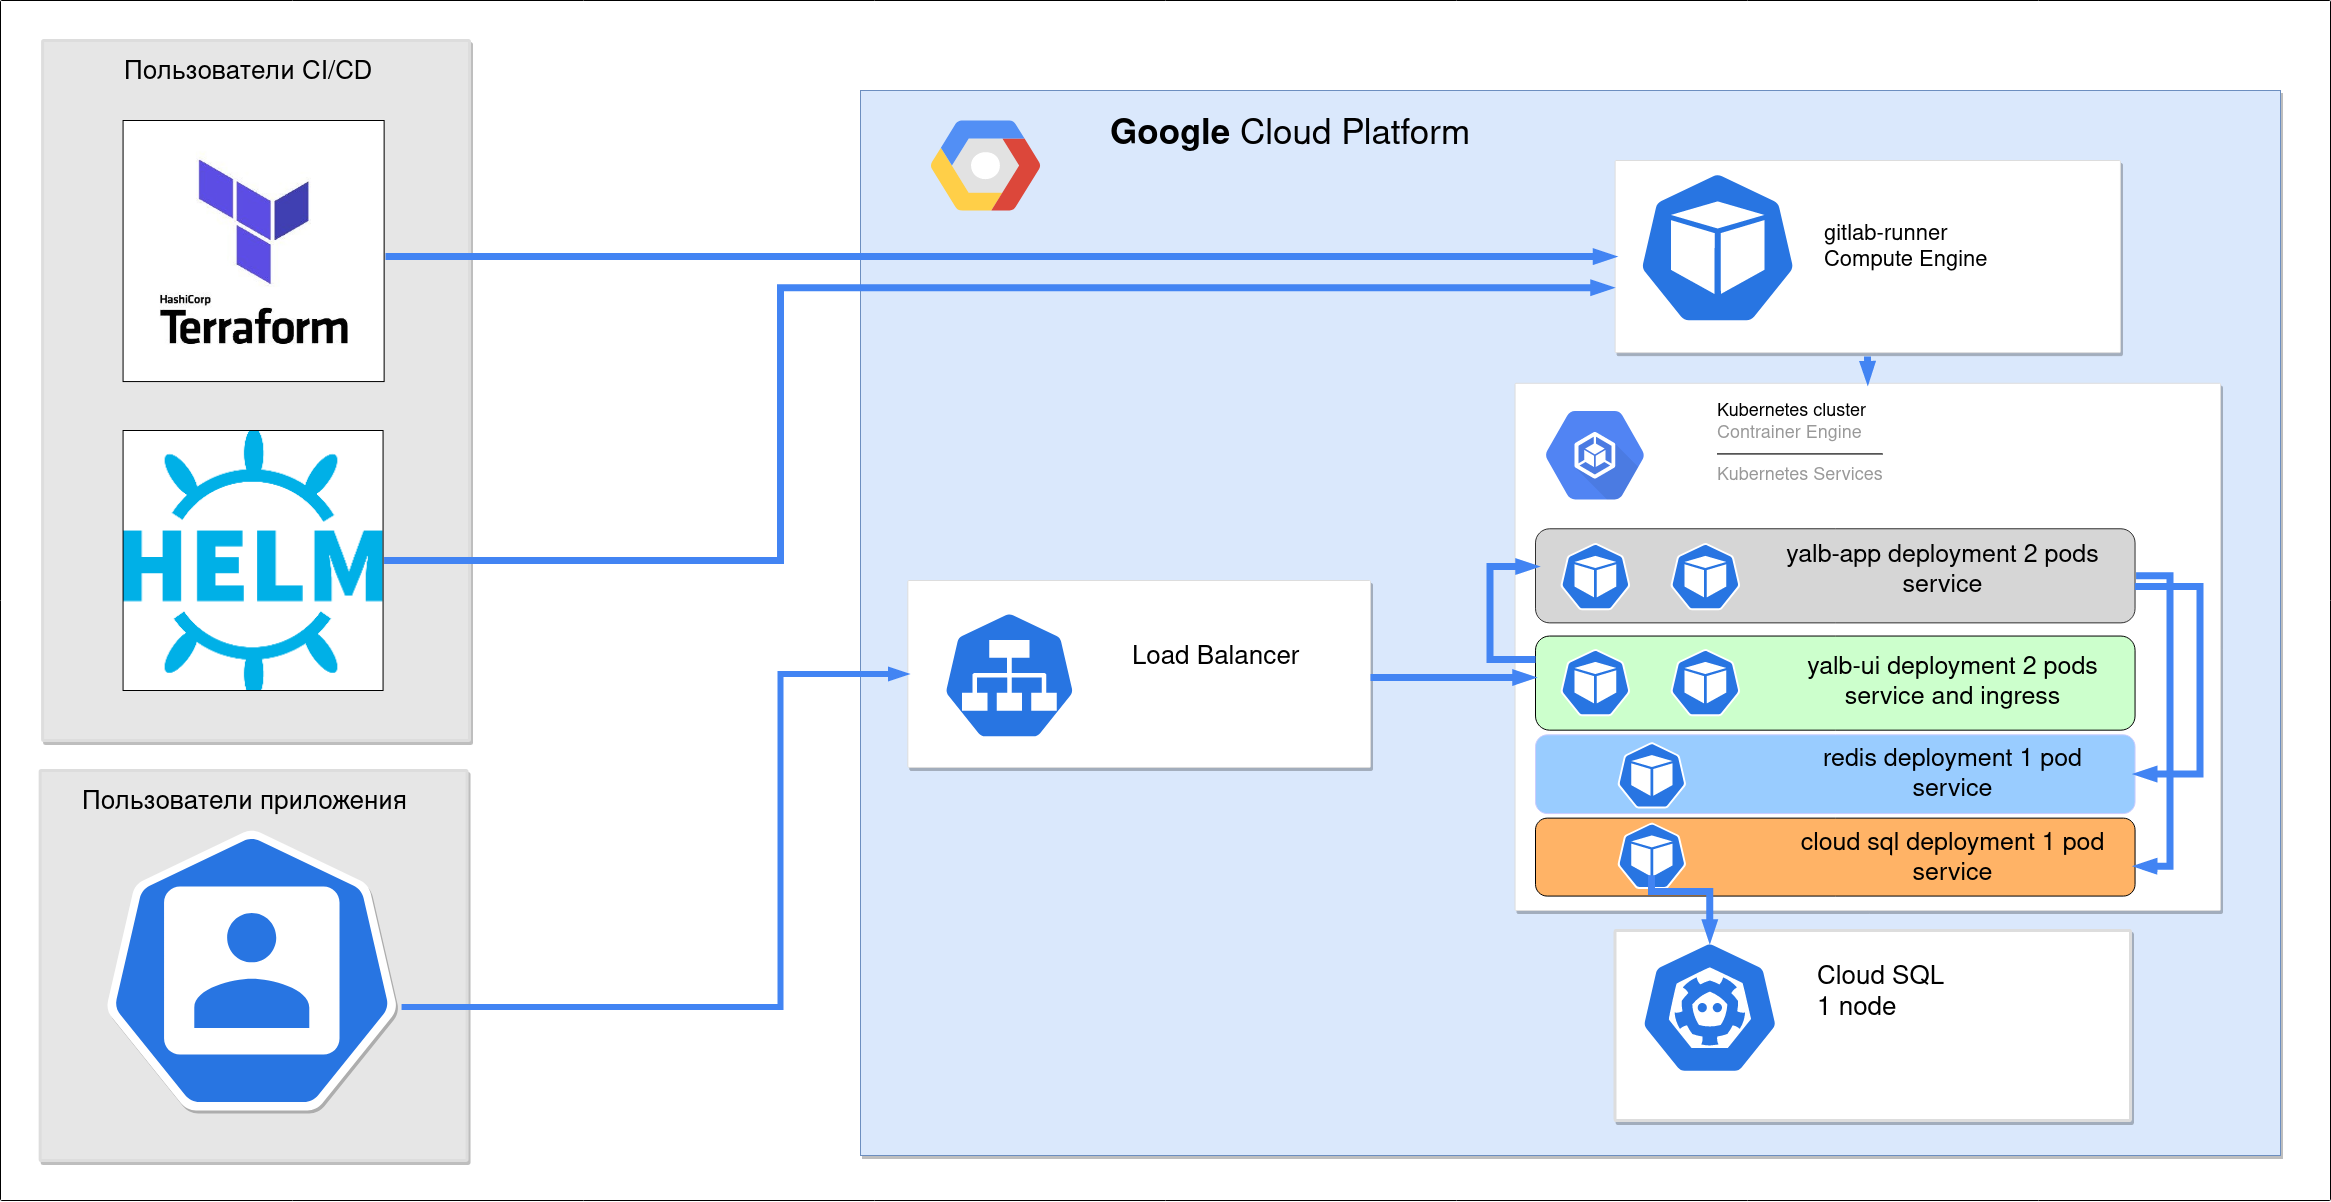
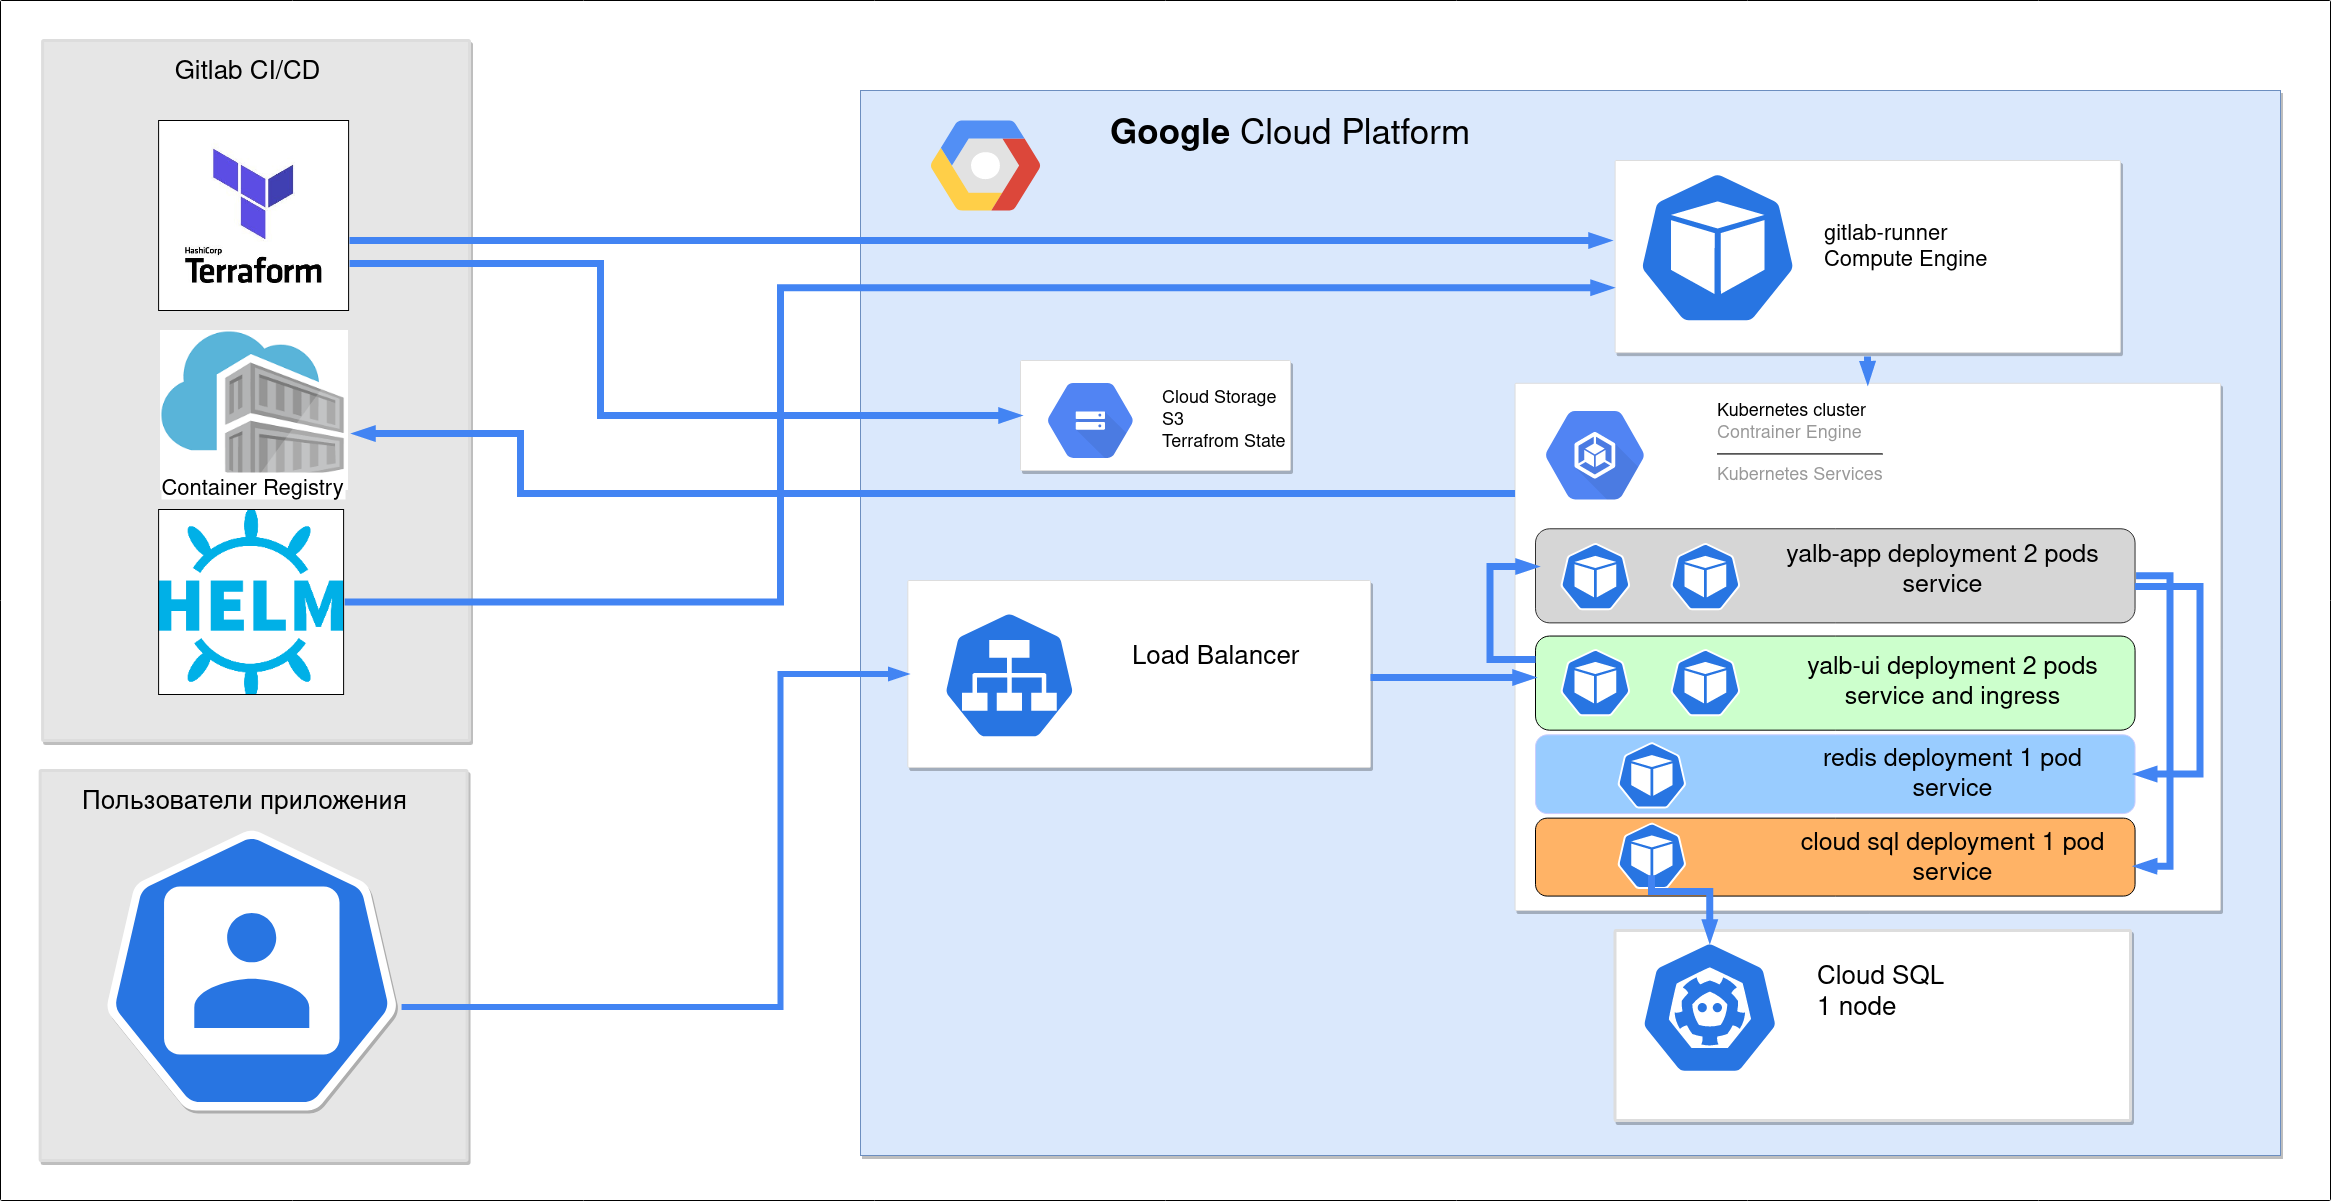
change readme

Changed region(s): [[0.0309, 0.0923, 0.7104, 0.5849], [0.2162, 0.277, 0.6486, 0.4309], [0.0618, 0.0308, 0.1544, 0.0616]]

diff --git a/README.md b/README.md
@@ -11,8 +11,8 @@
 * Папка test - содержит тест для docker-compose.yml (просто дергает страничку приложения и читает код ответа)
 * Папка deployments - не несет никакой роли, форкнута из изначального приложения
 * .helm-minikube - позволяет запустить приложение в миникубе
-* .helm_redis_and_cloudsql_ha - helm чарт для запуска HA редиса и HA cloudsql - попробовал что работает, но уходит слишком много денег (нужны дополнительные ресурсы для самого кубера - нод 3 штуки + в идеале 3 мастера + 2 ингресса, подов для редиса и sentinel - 3, подов под haproxy - 3, подов под прокси SQL - 3, дополнительная плата за HA Cloud SQL - это все поедает больше 10 долларов в час )))  )
-* .helm - позволяет запустить приложение с 1 подом редиса с pvc, 1 cloud sql прокси и по паре бэкенд - фронтенд. При смерти редиса или sql прокси - они пересоздаются кубером автоматом, в течении 30 сек
+* .helm_redis_and_cloudsql_ha - helm чарт для запуска HA редиса и HA cloudsql - попробовал что работает, но уходит слишком много денег (нужны дополнительные ресурсы для самого кубера - нод 3 штуки + в идеале 3 мастера + 2 ингресса, подов для редиса и sentinel - 3, подов под haproxy - 3, подов под прокси SQL - 3, дополнительная плата за HA Cloud SQL )
+* .helm - позволяет запустить приложение с 1 подом редиса с pvc, 1 cloud sql прокси и по паре бэкенд - фронтенд. При смерти редиса или sql прокси - они пересоздаются кубером автоматом, в течении 30 сек. SQL прокси (Cloud SQL Auth proxy) - рекомендованный Google способ взаимодействия с облачной базой данных. Именно его pod поднимается в кубере, и к нему идет обращение от приложения. А он уже идет по шифрованному каналу в Cloud SQL.
 
 Во втором репозитории располагается iac + всё описание проекта и в нем содержаться следующие файлы и папки:
 
@@ -21,8 +21,8 @@
 * vds - модуль терраформа для настройки виртуальной машины под gitlab раннер
 * cloudsql - модуль терраформа для настройки cloud sql
 
-В gke - для оптимизации затрат используется только одна нода kubernetes (за каждую дополнительную ноды начисляется очень значительное количество денег в час + цена самой виртуалки под ноду) - но, если есть необходимость, можно просто увеличить количество нод<br/>
-cloudsql - запускается без HA (за HA идет значительна доплата) - но, если есть необходимость, включить HA можно, если раскомментировать строчки про реплику<br/>
+В gke - для оптимизации затрат используется только одна нода kubernetes (за каждую дополнительную ноду начисляется значительное количество денег в час + цена самой виртуалки под ноду) - но, если есть необходимость, можно просто увеличить количество нод<br/>
+cloudsql - запускается без HA (за HA идет доплата) - но, если есть необходимость, включить HA можно, если убрать комментарии со строчек про реплику<br/>
 vds - просто виртуалка под раннер, раннер ставится и регистрируется автоматически через provision
 
 Итого получается следующая схема работы приложения:
